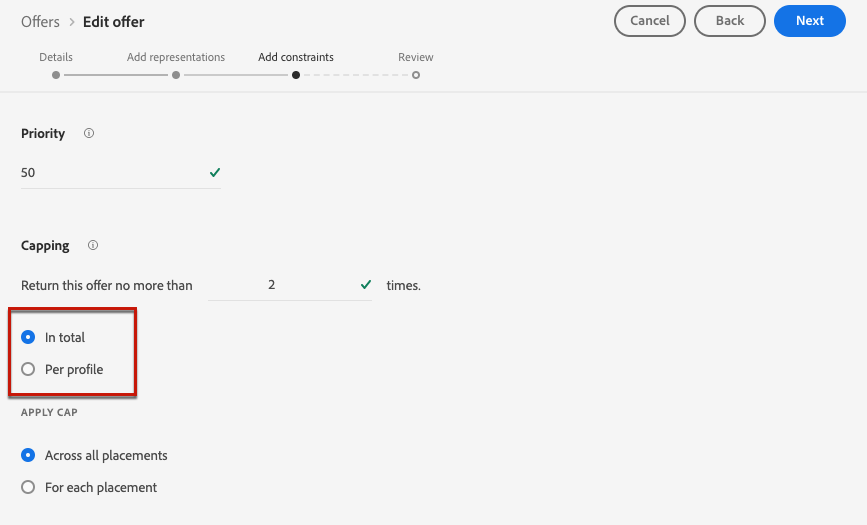
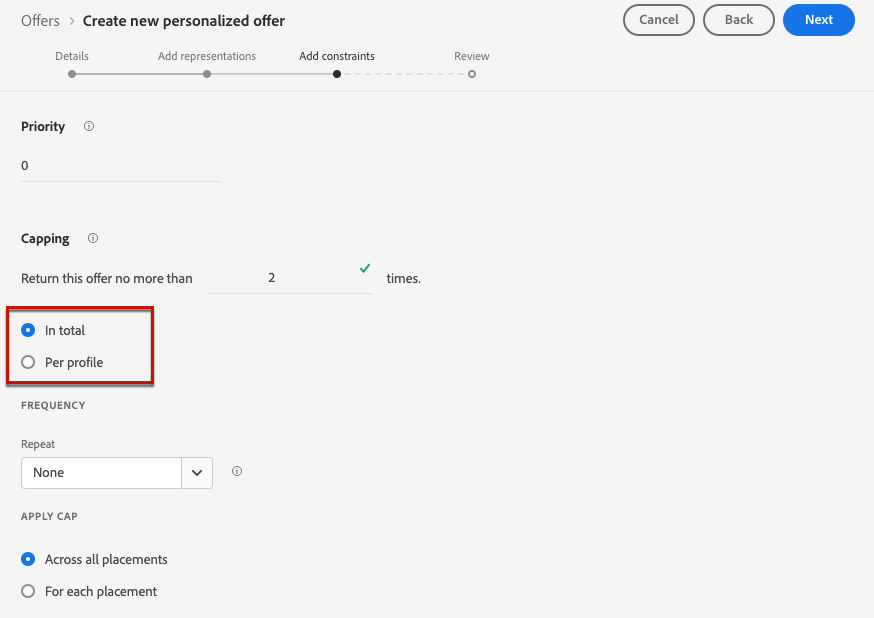
Od repeat frequency capping (#978)
* Update add-constraints.md

contextual help

* Repeat Frequency capping (draft)

* Frequency capping updates

diff --git a/help/using/offers/offer-library/add-constraints.md b/help/using/offers/offer-library/add-constraints.md
@@ -66,6 +66,11 @@ For example, if you set the following constraints:
 >abstract="In this section, you can use decision rules to determine which users are eligible to the offer."
 >additional-url="https://video.tv.adobe.com/v/329373" text="Watch demo video"
 
+>[!CONTEXTUALHELP]
+>id="ajo_decisioning_total_profile_estimate"
+>title="Total profile estimate"
+>abstract="When you select segments or decision rules, you can see information on the estimated qualified profiles."
+
 The **[!UICONTROL Offer eligibility]** section allows you to restrict the offer to specific profiles that you define using segments or decision rules.
 
 >[!NOTE]
@@ -128,6 +133,11 @@ Basically, the output of a segment is a list of profiles, whereas a decision rul
 >title="Use capping"
 >abstract="To avoid over-solicitating your customers, use capping to define the maximum number of times an offer can be presented."
 
+>[!CONTEXTUALHELP]
+>id="ajo_decisioning_frequency_capping"
+>title="Set the capping frequency"
+>abstract="You can choose to reset the offer capping counter on a daily, weekly or monthly basis."
+
 Capping is used as a constraint to define the maximum number of times an offer can be presented.
 
 Limiting the number of times users get specific offers allows you to avoid over-solicitating your customers and thus to optimize each touchpoint with the best offer.
@@ -154,6 +164,16 @@ To set capping, follow the steps below.
 
         For example, if you are a bank with a 'Platinum credit card' offer, you don't want this offer to be shown more than 5 times per profile. Indeed, you believe that if the user has seen the offer 5 times and not acted on it, they have a higher chance to act on the next best offer.
 
+1. Set the **[!UICONTROL Frequency]** to define how often the capping count is reset. To do so, define the time period for the counting (daily, weekly or monthly) and enter the number of days/weeks/months of your choice.
+
+    ![](../assets/offer-capping-frequency.png)
+
+    >[!NOTE]
+    >
+    >The reset happens at 12am UTC, on the day that you defined or on the first day of the week/month when applicable. The week start day is Sunday.
+    
+    For example, if you want the capping count to be reset every 2 weeks, select **[!UICONTROL Weekly]** from the **[!UICONTROL Repeat]** drop-down list and type **2** in the second field. The reset will happen every other Sunday at 12pm UTC.
+
 1. If you have defined several [representations](#representations) for your offer, specify whether you want to apply capping **[!UICONTROL Across all placements]** or **[!UICONTROL For each placement]**.
 
     ![](../assets/offer-capping-placement.png)
@@ -166,7 +186,7 @@ To set capping, follow the steps below.
     
         For example, if an offer has an **Email** placement and a **Web** placement, and you set the capping at **2 per profile for each placement**, then each profile could receive the offer up to 2 times for the email placement, and an additional 2 times for the web placement.
 
-1. Once saved and approved, if the offer has been presented the number of times you have specified in this field according to the criteria you defined, its delivery will stop.
+1. Once saved and approved, if the offer has been presented the number of times you have specified in this field according to the criteria and the timeframe you defined, its delivery will stop.
 
 The number of times an offer is proposed is calculated at email preparation time. For example, if you prepare an email with a number of offers, those numbers count towards your max cap regardless of whether or not the email is sent.
 
